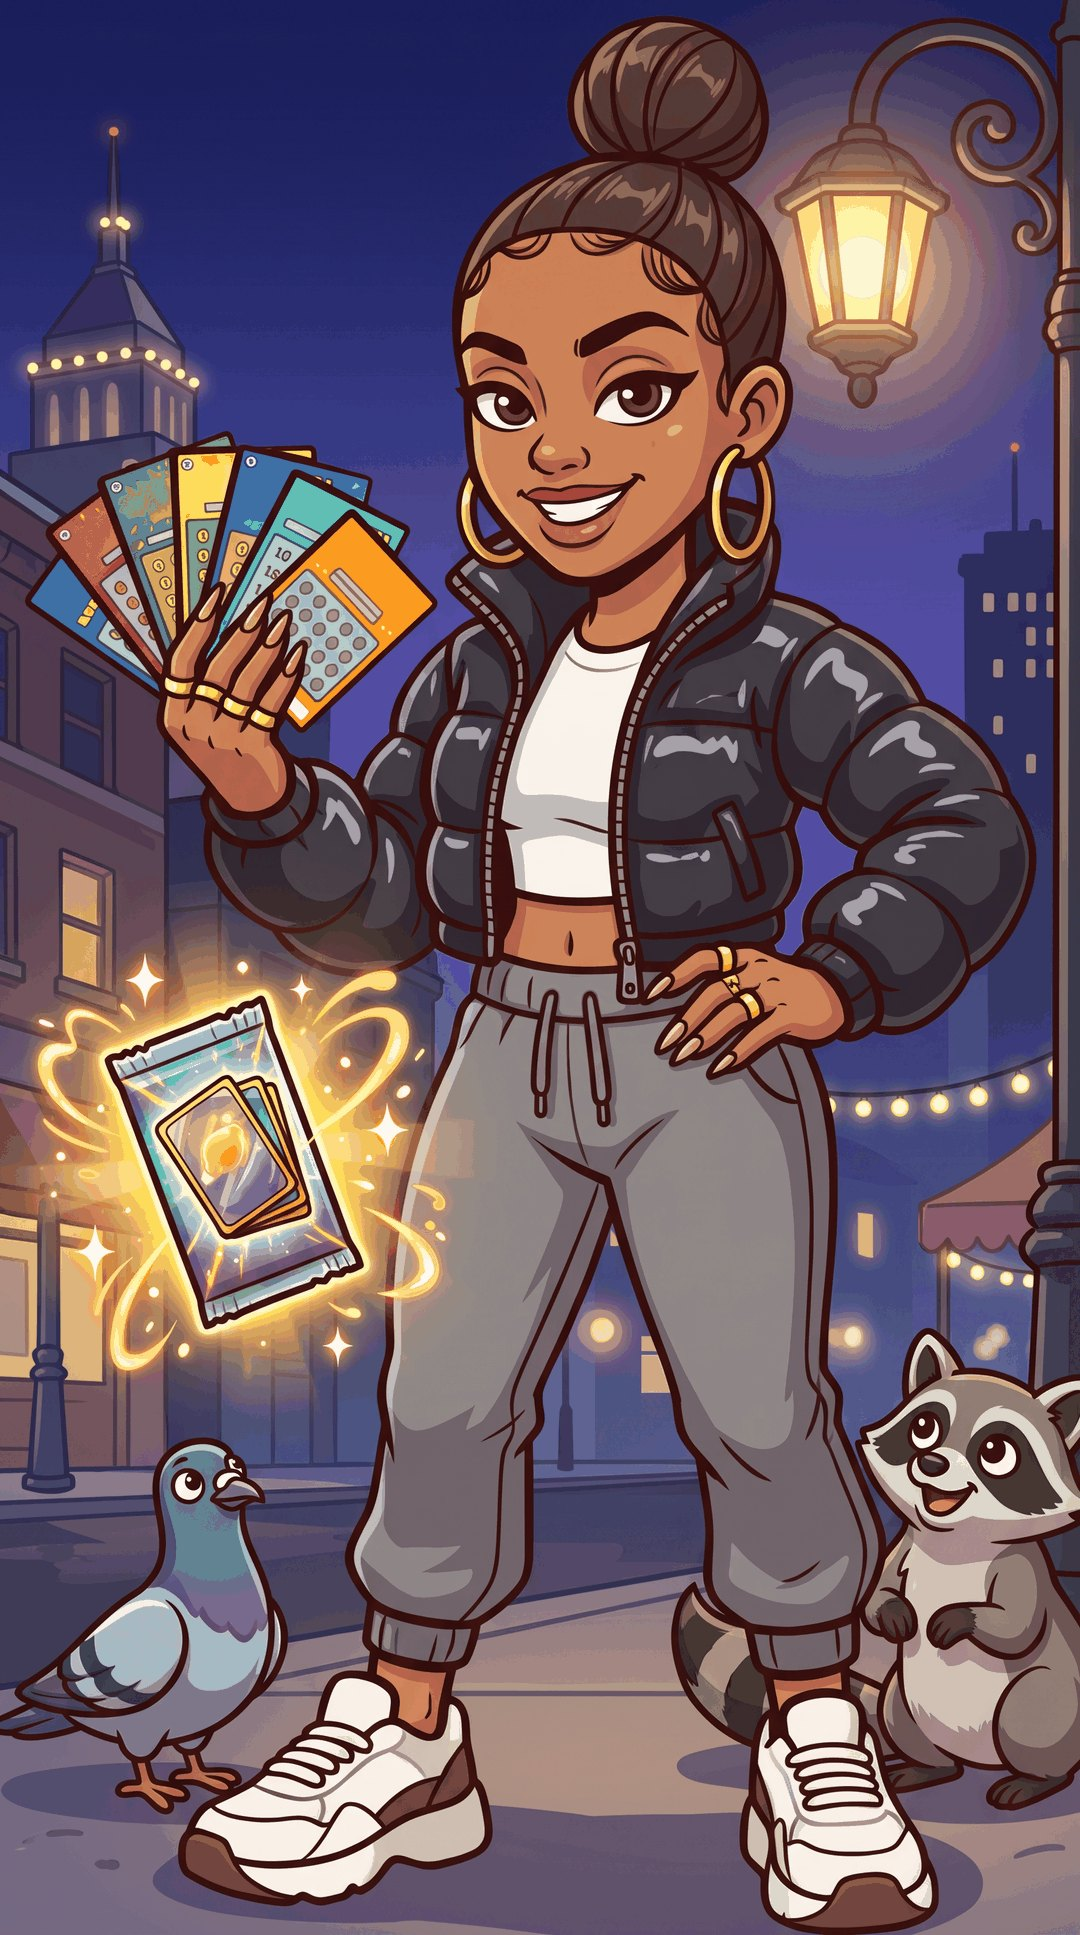
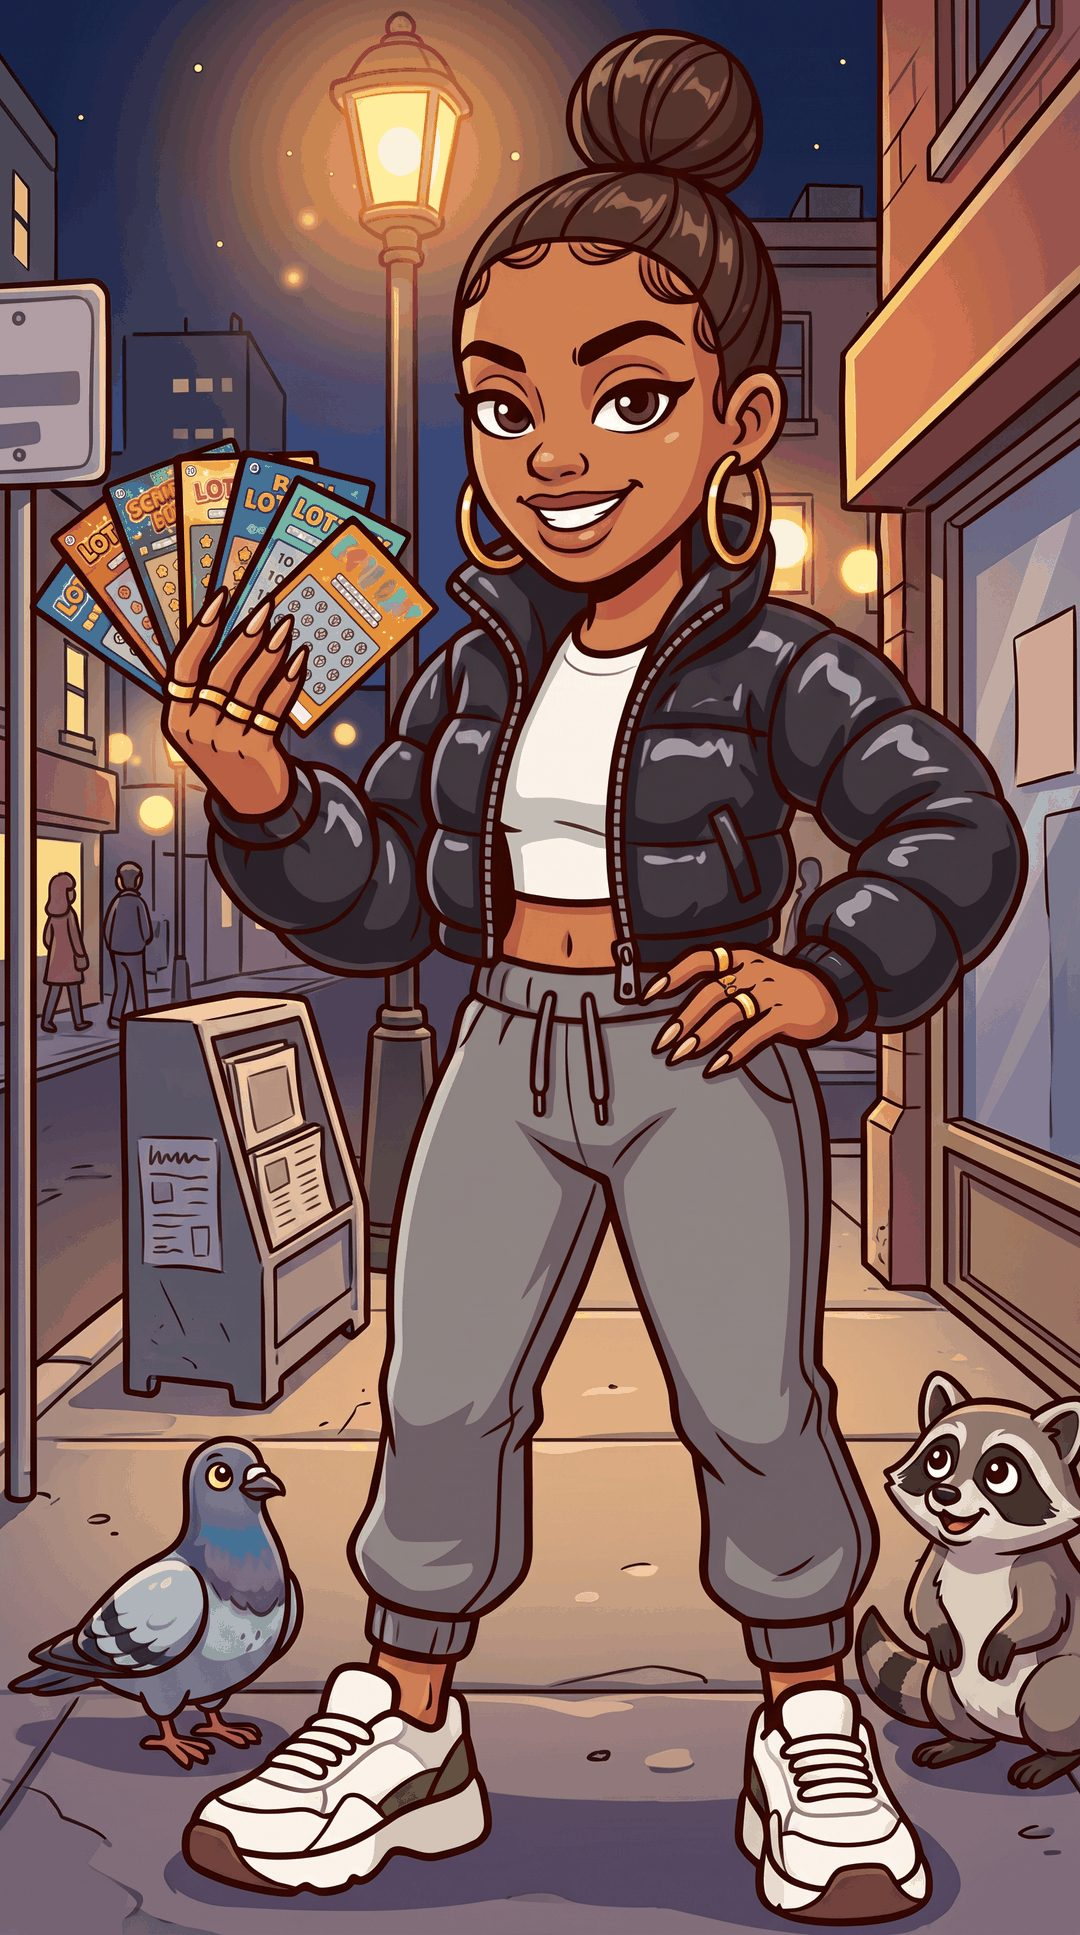
Chargement : nouvelle Doudoune (sans booster volant), cadrée comme les autres

diff --git a/game.html b/game.html
@@ -121,7 +121,7 @@
         var el = document.getElementById('start'), fill = el.querySelector('.ld-fill'), txt = el.querySelector('.ld-txt'), coin = el.querySelector('.ld-coin');
         // une scène au hasard parmi les images de chargement (celles qui existent) ; l'accueil « Continuer » garde la même
         var NB = 8, pick = [], tryBg = function () { if (!pick.length) return; var n = pick.shift(), im = new Image();
-          im.onload = function () { var b = el.querySelector('.ld-bg'); b.style.setProperty('--ld', 'url(' + im.src + ')'); var F = ({ 1: [11, 1.06], 2: [-9.7, 1], 3: [-15.3, 1.25], 4: [17, 1], 5: [-7.9, 1.17], 7: [-11.4, 1.17], 8: [-9.5, 1.06] })[n] || [0, 1]; b.style.setProperty('--ldy', F[0] + '%'); b.style.setProperty('--lds', F[1]);   /* chaque image recalée : même taille de visage partout, visage sous le logo (mesuré à la règle) */ b.classList.add('on'); window.HC_BG = im.src; }; var ext = ['webp', 'jpg', 'png'], k = 0; im.onerror = function () { if (++k < ext.length) im.src = 'assets/img/load-' + n + '.' + ext[k]; else tryBg(); }; im.src = 'assets/img/load-' + n + '.webp'; };   /* la version légère d'abord (webp ou jpg selon l'image) */
+          im.onload = function () { var b = el.querySelector('.ld-bg'); b.style.setProperty('--ld', 'url(' + im.src + ')'); var F = ({ 1: [11, 1.06], 2: [-9.7, 1], 3: [-15.3, 1.25], 4: [19, .91], 5: [-7.9, 1.17], 7: [-11.4, 1.17], 8: [-9.5, 1.06] })[n] || [0, 1]; b.style.setProperty('--ldy', F[0] + '%'); b.style.setProperty('--lds', F[1]);   /* chaque image recalée : même taille de visage partout, visage sous le logo (mesuré à la règle) */ b.classList.add('on'); window.HC_BG = im.src; }; var ext = ['webp', 'jpg', 'png'], k = 0; im.onerror = function () { if (++k < ext.length) im.src = 'assets/img/load-' + n + '.' + ext[k]; else tryBg(); }; im.src = 'assets/img/load-' + n + '.webp'; };   /* la version légère d'abord (webp ou jpg selon l'image) */
         for (var k = 1; k <= NB; k++) pick.push(k); pick.sort(function () { return Math.random() - .5; }); tryBg();
         var rain = el.querySelector('.ld-rain'); for (var r = 0; r < 14; r++) { var b = document.createElement('b'); if (r % 3 === 0) b.className = 'c';
           b.style.left = (Math.random() * 100) + '%'; b.style.animationDuration = (4 + Math.random() * 5) + 's'; b.style.animationDelay = (-Math.random() * 8) + 's'; rain.appendChild(b); }
